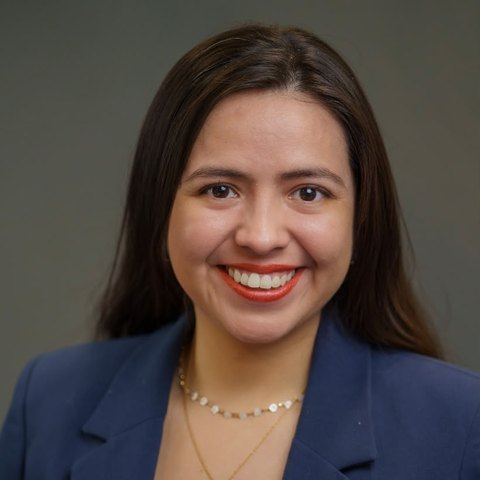
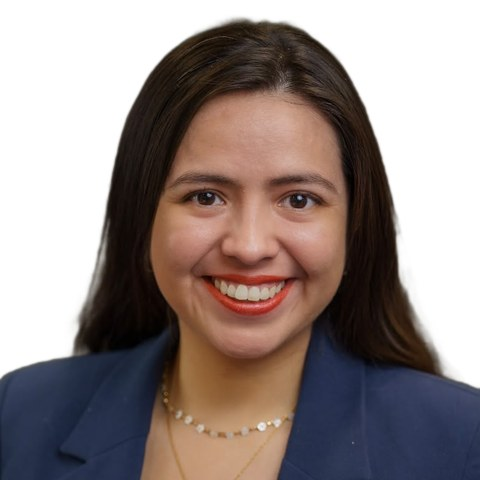
People: headshots for Vinicius Mai and Pujan Ashish Mohanta; recrop Cristina and Anupama to match (white background, same framing)

diff --git a/people.html b/people.html
@@ -76,9 +76,9 @@
       <p class="ed">BS Chemical Engineering, ITESO, Mexico</p></li>
     <li><img class="ph" src="images/people/jayakumar.jpg" alt="Hariharan Jayakumar"><h3>Hariharan Jayakumar</h3><p>Joined Spring 2025</p>
       <p class="ed">BS Chemical Engineering, Anna University, India</p></li>
-    <li><span class="ph ini">VM</span><h3>Vinicius Mai</h3><p>Joined Fall 2025</p></li>
+    <li><img class="ph" src="images/people/mai.jpg" alt="Vinicius Mai"><h3>Vinicius Mai</h3><p>Joined Fall 2025</p></li>
     <li><img class="ph" src="images/people/bandara.jpg" alt="Anupama Bandara"><h3>Anupama Bandara</h3><p>Joined Fall 2025</p></li>
-    <li><span class="ph ini">PM</span><h3>Pujan Ashish Mohanta</h3><p>Joined Fall 2025</p></li>
+    <li><img class="ph" src="images/people/mohanta.jpg" alt="Pujan Ashish Mohanta"><h3>Pujan Ashish Mohanta</h3><p>Joined Fall 2025</p></li>
   </ul></div>
 </div></section>
 
